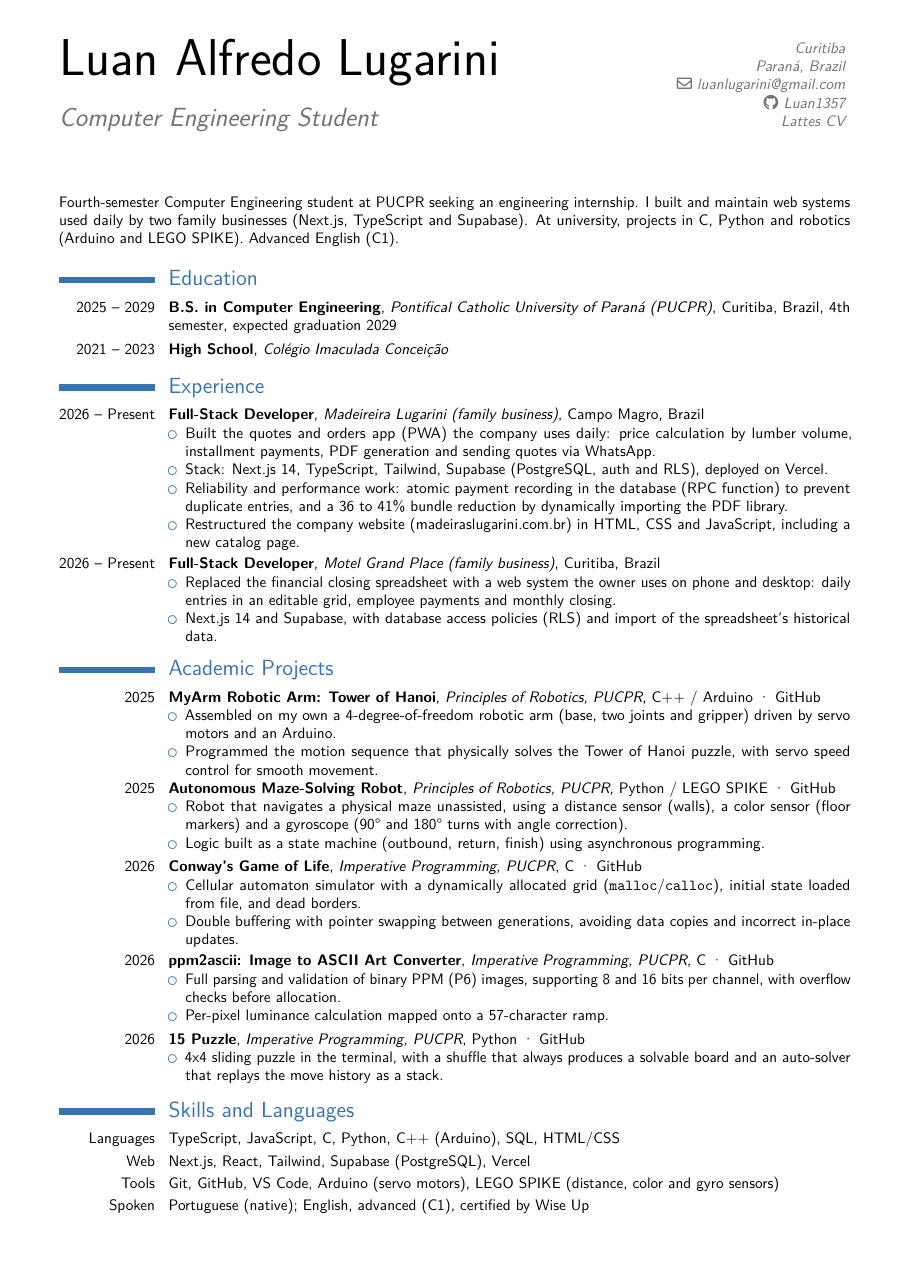
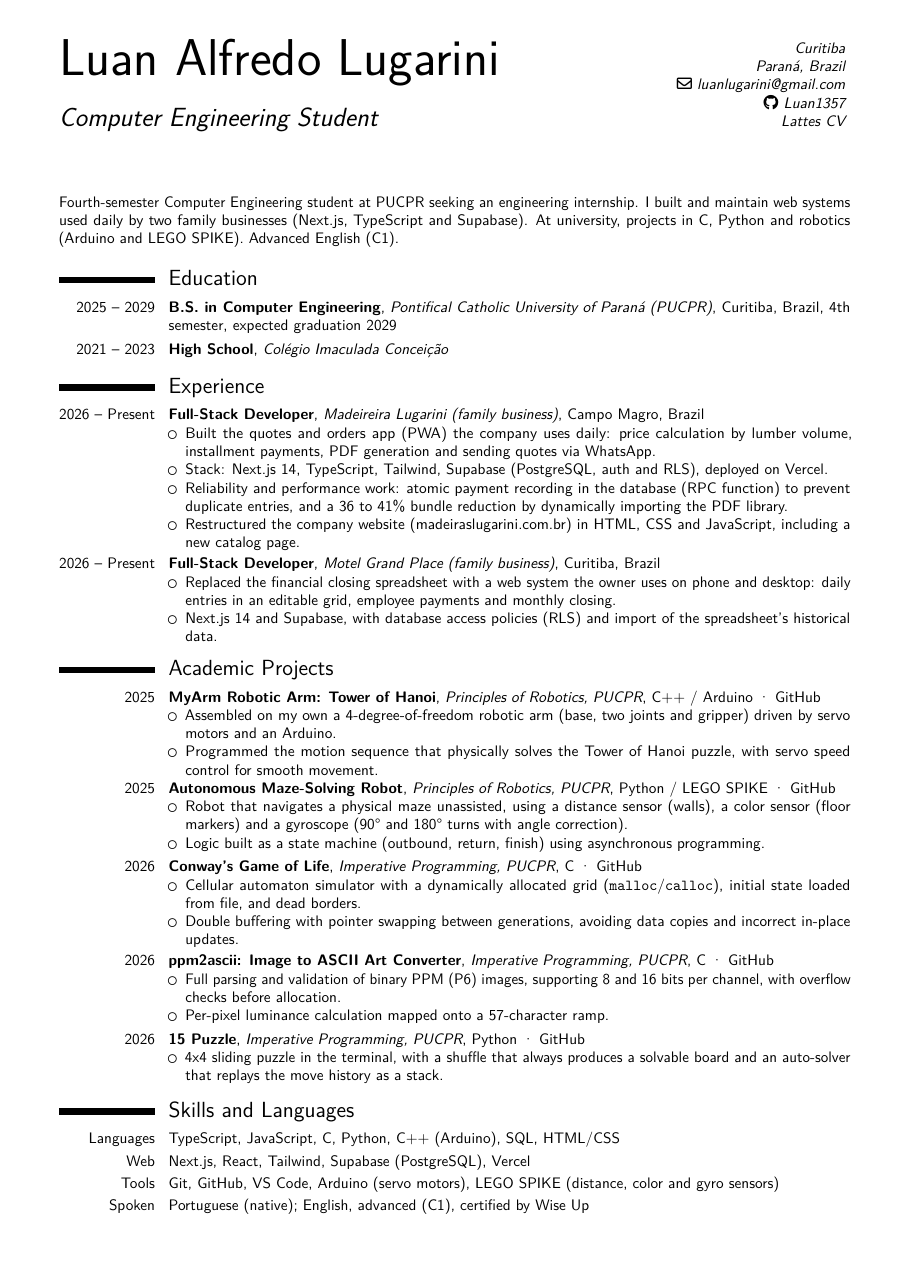
Currículo

diff --git a/LuanLugariniCV_PT.tex b/LuanLugariniCV_PT.tex
@@ -2,7 +2,7 @@
 
 % ----- CONFIGURACAO MODERNCV -----
 \moderncvstyle{classic}
-\moderncvcolor{blue}
+\moderncvcolor{black}
 
 % ----- PACOTES -----
 \usepackage[utf8]{inputenc}

diff --git a/LuanLugariniCV_EN.tex b/LuanLugariniCV_EN.tex
@@ -2,7 +2,7 @@
 
 % ----- MODERNCV SETUP -----
 \moderncvstyle{classic}
-\moderncvcolor{blue}
+\moderncvcolor{black}
 
 % ----- PACKAGES -----
 \usepackage[utf8]{inputenc}
